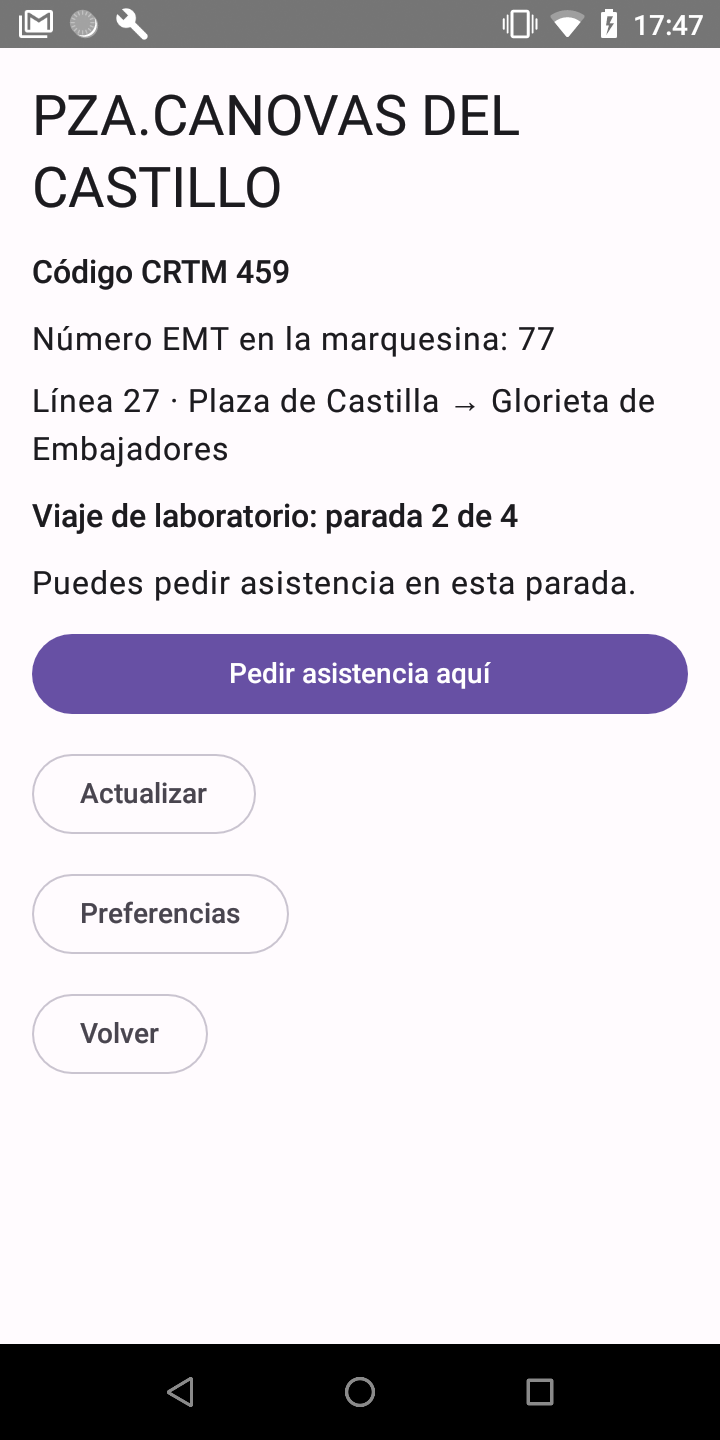
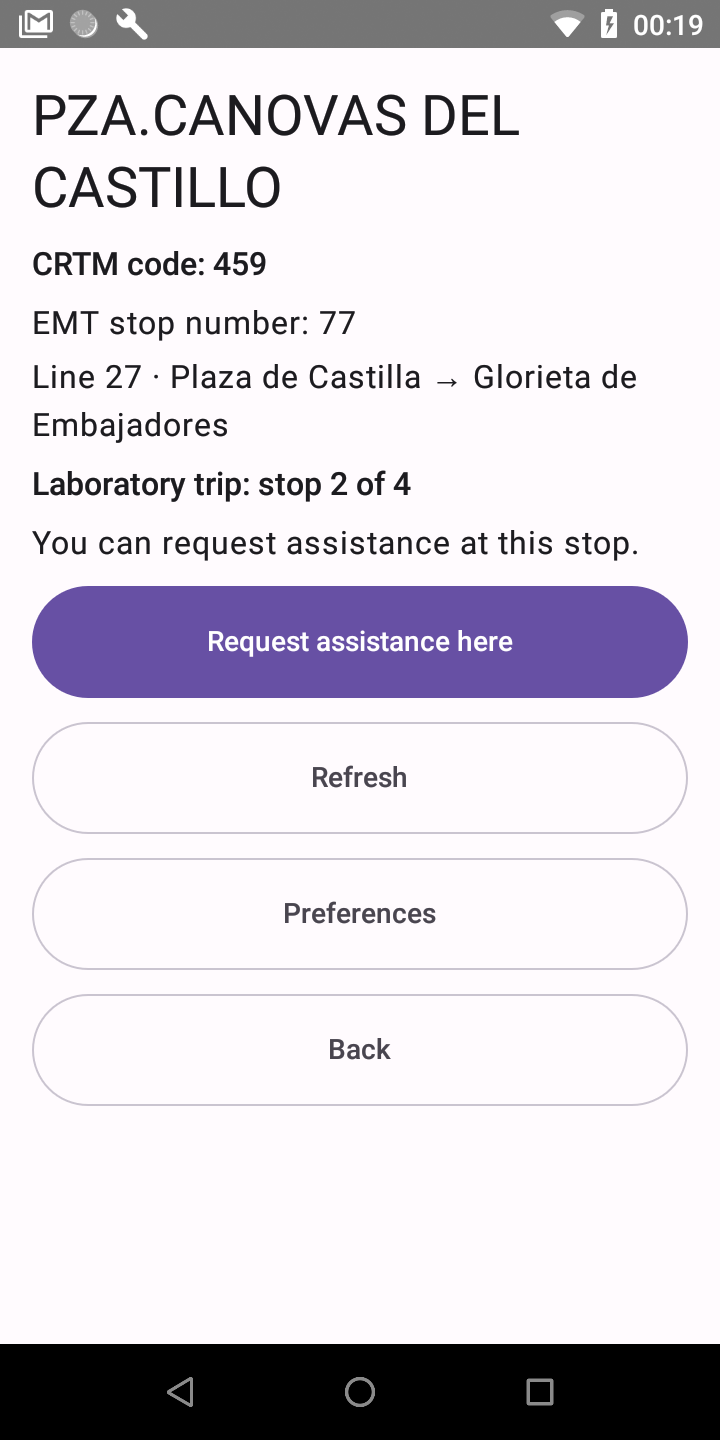
docs(evidence): run TI01 again with the app in English, plus the #105 announcement checks
Screenshots from the English build of #105. The sheet adds three checks on the
phone: a decision survives the process being killed, only the newest decision of a
request is announced, and the app does not speak over TalkBack.

diff --git a/docs/evidence/A16/TI01.md b/docs/evidence/A16/TI01.md
@@ -2,32 +2,36 @@
 
 ## Scenario
 
-The whole passenger path against the laboratory: the app downloads the stops, the passenger
-asks for assistance, the driver's HMI acknowledges it, the driver accepts, and the passenger is
-told according to the phone context (C09): text and vibration with the phone in hand, voice with
-the phone covered.
+The whole passenger path against the laboratory:
+1. The app downloads the stops.
+2. The passenger asks for assistance.
+3. The driver's HMI acknowledges the request.
+4. The driver accepts it.
+5. The passenger is told according to the phone context (C09): text and vibration with the phone in hand, voice with the phone covered.
+
+The run also checks three announcement rules from #105:
+- a decision survives the process being killed;
+- only the newest decision of a request is announced;
+- the app does not speak over TalkBack.
 
 ## Configuration
 
-- **Code:** `develop` at `857482d`, debug build against the laboratory:
+- **Code:** branch `feature/app-cleanup` at `ba4aabd` (#105, on top of `develop` with C11 and #103). Debug build against the laboratory:
   `./gradlew assembleDebug -PuseSampleApi=false -PapiBaseUrl=http://127.0.0.1:8000/ -PmqttBroker=tcp://127.0.0.1:11883`.
-- **Laboratory:** API, PostgreSQL, Mosquitto and Node-RED on the VM. Demo reset before the run
-  (trip `0a90dc48`).
-- **Passenger:** Aquaris C, Android 8.1, real light and proximity sensors, voice mode AUTO
-  (the default). API and broker over USB (`adb reverse` and an SSH tunnel to the VM); Wi-Fi only
-  for the CRTM download.
+- **Laboratory:** API, PostgreSQL, Mosquitto and Node-RED on the VM, branch `feature/dist-cleanup` (#106). Demo reset before the run (trip `c49bf20c`).
+- **Passenger:** Aquaris C, Android 8.1, real light and proximity sensors, voice mode AUTO (the default). App data cleared before the run. API and broker over USB (`adb reverse` and an SSH tunnel to the VM); Wi-Fi only for the CRTM download.
 - **Driver:** HMI on a Pixel 8 emulator, same build and same tunnel.
-- Run by A on 22 Nov 2026. B and C were not present; C reviews the sheet.
+- **Run:** by A on 23 Nov 2026, with the app in English. B and C were not present; C reviews the sheet.
 
 ## Steps and results
 
 | # | Step | Result | Image |
 | --- | --- | --- | --- |
-| 1 | Passenger, with app data cleared: "Actualizar" | The four real stops from the CRTM, in manifest order (456, 459, 460, 461), each with its visit of the lab trip | `01-passenger-stops.png` |
-| 2 | Stop 459, "Pedir asistencia aquí", "Solicitar asistencia" | Detail and Confirm, then Tracking with "Solicitud registrada" | `02-stop-detail.png`, `03-confirm.png` |
-| 3 | Wait | Passenger: "Recibida por el terminal del autobús" at once. HMI: "Pending (1) · Stop 459 · visit 2 · Received by terminal" | `04-tracking-received.png`, `05-hmi-pending.png` |
-| 4 | Phone face up on the table; driver taps Accept | Passenger: "El conductor ha confirmado tu solicitud", a vibration and the on-screen message "The driver has accepted your request." | `06-accepted-uncovered.png`, `07-hmi-accepted.png` |
-| 5 | Second request at stop 460; phone covered; driver taps Accept | Spoken: "The driver has accepted your request." The tracking screen shows the decision | `08-hmi-accepted-460.png`, `09-tracking-accepted-460.png` |
+| 1 | Passenger, with app data cleared: "Refresh" | The four real stops from the CRTM, in manifest order (456, 459, 460, 461), each with its visit of the lab trip | `01-passenger-stops.png` |
+| 2 | Stop 459, "Request assistance here", "Request assistance" | Detail and Confirm, then Tracking with "Request registered" | `02-stop-detail.png`, `03-confirm.png` |
+| 3 | Wait | Passenger: "Received by the bus terminal" at once. HMI: "Pending (1) · Stop 459 · visit 2 · Received by terminal" | `04-tracking-received.png`, `05-hmi-pending.png` |
+| 4 | Phone face up on the table; driver taps Accept | Passenger: "The driver has confirmed your request.", a vibration and the on-screen message "The driver has accepted your request." | `06-accepted-uncovered.png`, `07-hmi-accepted.png` |
+| 5 | Second request at stop 460; phone covered; driver taps Accept | Spoken: "The driver has accepted your request." (audio focus requested, then released) | `08-hmi-accepted-460.png` |
 
 Passenger log (`adb logcat -s C08 C09`, plus the system audio and TTS lines):
 
@@ -43,30 +47,42 @@ D/C08: lux=0.0, proximity=0.0, near=true
 D/C09: AUTO context estimated: COVERED
 I/MediaFocusControl: requestAudioFocus() from … callingPack=dte.masteriot.accessiblebus req=2
 I/TTS: Synthesis request for locale eng-USA and name en-US-language
-I/MediaFocusControl: abandonAudioFocus() from … (3 s later)
+I/MediaFocusControl: abandonAudioFocus() from … dte.masteriot.accessiblebus.announcements.AnnouncementSpeech…
 ```
 
-API log of the run (one `201` per request, one `200` per accept, each event on both topics and
-the HMI receipt recorded):
+API log of step 2 to step 4. There is one `201` for the request and one `200` for the accept. Each event goes out on both topics, and the HMI receipt is recorded:
 
 ```text
 "POST /requests HTTP/1.1" 201 Created
-outbox.publish.confirmed event_id=232ca05d-… topic=users/passenger-1/events qos=1
-outbox.publish.confirmed event_id=232ca05d-… topic=vehicles/BUS-DEMO-01/events qos=1
-receipts.recorded event_id=232ca05d-… terminal=hmi-demo-01
-"POST /requests/094198bf-…/accept HTTP/1.1" 200 OK
-outbox.publish.confirmed event_id=ae78041d-… topic=users/passenger-1/events qos=1
-outbox.publish.confirmed event_id=ae78041d-… topic=vehicles/BUS-DEMO-01/events qos=1
+outbox.publish.confirmed event_id=d5248358-… topic=users/passenger-1/events qos=1
+outbox.publish.confirmed event_id=d5248358-… topic=vehicles/BUS-DEMO-01/events qos=1
+receipts.recorded event_id=d5248358-… terminal=hmi-demo-01
+outbox.publish.confirmed event_id=0df58631-… topic=users/passenger-1/events qos=1
+outbox.publish.confirmed event_id=0df58631-… topic=vehicles/BUS-DEMO-01/events qos=1
+"POST /requests/421e6c33-…/accept HTTP/1.1" 200 OK
+outbox.publish.confirmed event_id=34de3cae-… topic=users/passenger-1/events qos=1
 ```
+
+## Announcement checks (#105)
+
+The decisions already announced are stored in `shared_prefs/announced_decisions.xml` as `requestId:version`. The app is a debug build, so `adb shell run-as` can read that file.
+
+| Check | How | Result |
+| --- | --- | --- |
+| A decision survives the process being killed | Request at stop 461. The passenger app goes to the background, the driver accepts, and the process is killed with `run-as … kill -9`. Then the app is opened again | While hidden, nothing was announced and `70e015cc:2` was not on disk. On reopening, `/sync` brought the decision back. It was announced once and stored. The decision of step 4 (`421e6c33:2`) was not repeated |
+| Only the newest decision of a request | Request at stop 456. The passenger app goes to the background, the driver accepts it (version 2) and then ends the trip (version 3). Then the app is opened again | Four decisions were processed, one per open request, all "trip ended". For stop 456 only `4c9676bd:3` was stored, never `4c9676bd:2`: the acceptance was not announced after the trip had ended |
+| No speech over TalkBack | New demo trip, voice mode ALWAYS, TalkBack on. Request at stop 459, and the driver accepts | The message "The driver has accepted your request." was shown on screen for TalkBack to read. The app requested no audio focus; the only speech was TalkBack's own voice (`en-GB`, not the app's `en-US`) |
+
+Images: `09-dedupe-trip-ended.png` (stop 456 after returning) and `10-talkback-text.png`.
+
+Afterwards the phone was restored: TalkBack off, voice mode AUTO, screen timeout 1 minute, `adb reverse` removed.
 
 ## Result
 
-**Passed.** Download, request, receipt, acceptance and the announcement by context, with the
-real sensors of the phone.
+**Passed.** The run covered the download, the request, the receipt, the acceptance and the announcement by context, with the real sensors of the phone and the app in English. The three announcement rules of #105 also hold on the device.
 
 ## Observations
 
-- The announcements of C09 are in English, while the passenger screens are in Spanish.
-- The phone's time zone is Europe/London and its clock is one hour ahead, so "Registrada a las
-  16:49" does not match the clock in the status bar. The app converts the server time correctly;
-  the phone is misconfigured.
+- The phone's time zone is Europe/London and its clock is one hour ahead. So "Registered at 23:21" does not match the clock in the status bar. The app converts the server time correctly; the phone is misconfigured.
+- After the process is killed, Tracking shows "Stop 461" instead of the stop name until the stop list loads again. This is minor, and it also happened before #105.
+- After a demo reset, the HMI kept showing "Trip ended" until the driver tapped Refresh. The passenger side picked up the new trip.
